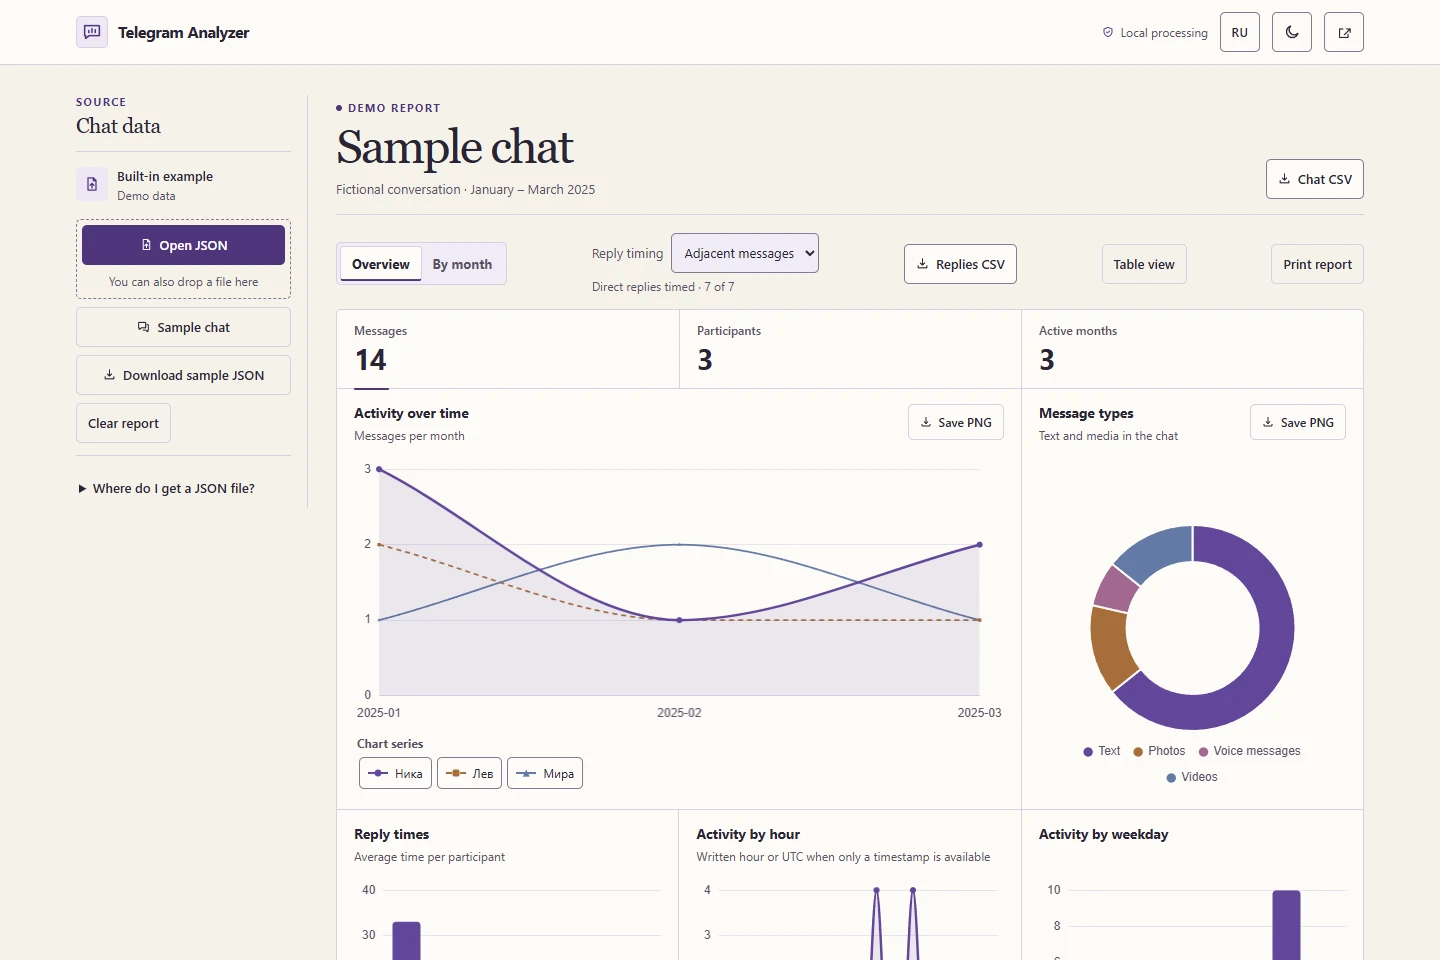
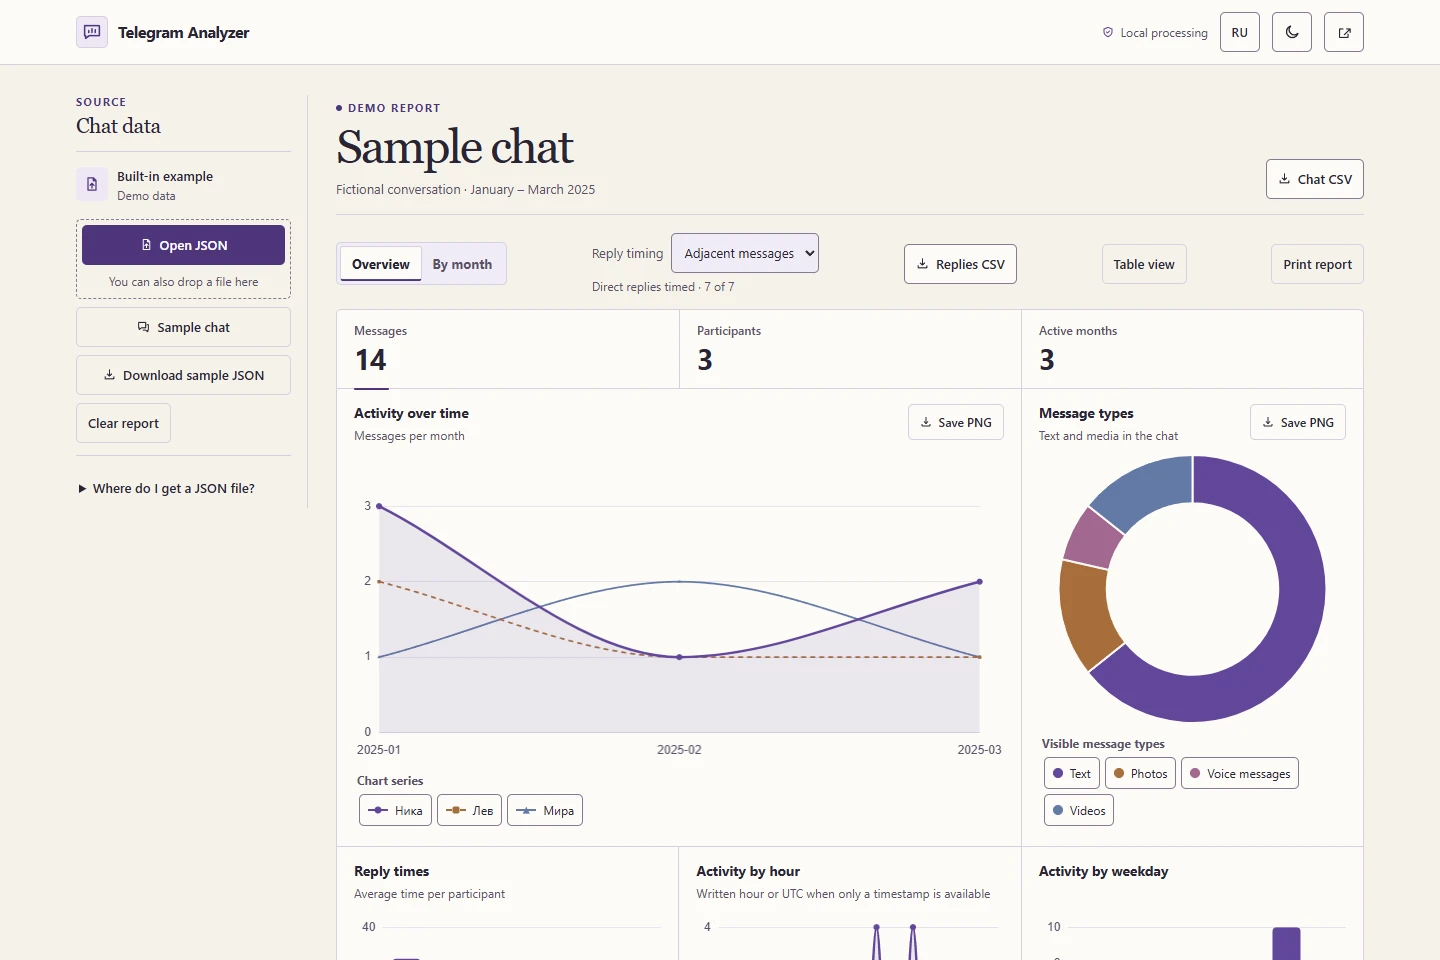
Guide readers through the sample chat exports

diff --git a/README.md b/README.md
@@ -6,13 +6,20 @@
 
 Analyze Telegram Desktop chat exports in your browser. See who participates, when the conversation is most active, and how long responses take.
 
-**[Try in browser →](https://orangepony4.github.io/telegram-analyzer/)**
+**[Try it here →](https://orangepony4.github.io/telegram-analyzer/)**
 
 [Analyze my export](https://orangepony4.github.io/telegram-analyzer/?view=upload) · [Download the offline ZIP](https://github.com/orangepony4/telegram-analyzer/releases/latest) · [View source code](https://github.com/orangepony4/telegram-analyzer/tree/main)
 
-The app opens with a fictional three-month conversation. Explore the charts and download a sample CSV right away. **Analyze my export** opens the upload view. Choose **Sample chat** to open the example or **Download sample JSON** to save the same conversation and try importing it yourself with **Open JSON**. The interface starts in English. Use **RU** in the header to switch to Russian without reopening the report.
+The browser app opens with a fictional three-month conversation. Use **RU** in the header to switch from English to Russian without reopening the report.
 
-![Telegram Analyzer showing monthly activity and message types for a fictional chat](docs/preview.webp)
+![A fictional chat report with activity and message-type charts and category buttons](docs/preview.webp)
+
+### Try the sample chat
+
+1. Select **Table view**, open **Participants table**, and enter `Ника` in **Find by name**. Choose **Table CSV** to save that participant's row.
+2. Select **Table view** again to show the charts. Under **Message types**, focus **Videos** with Tab and press Enter to hide the video slice. Choose **Save PNG** above the chart to download the visible slices.
+
+Use **Download sample JSON** to save the same conversation and practice importing it with **Open JSON**. The **Analyze my export** link opens the upload view directly.
 
 ### Analyze your own chat
 
@@ -89,13 +96,18 @@ Run `npm run package:offline` from a Git checkout to build `telegram-analyzer-of
 
 ## Русский
 
-**[Попробовать в браузере →](https://orangepony4.github.io/telegram-analyzer/)**
+**[Попробовать здесь →](https://orangepony4.github.io/telegram-analyzer/)**
 
 [Проанализировать свой экспорт](https://orangepony4.github.io/telegram-analyzer/?view=upload) · [Скачать ZIP для работы без интернета](https://github.com/orangepony4/telegram-analyzer/releases/latest) · [Исходный код](https://github.com/orangepony4/telegram-analyzer/tree/main) · [English](#english)
 
-Telegram Analyzer показывает активность, участников и время ответа по экспорту из Telegram Desktop. Ссылка «Попробовать в браузере» открывает вымышленную переписку за три месяца. Можно сразу посмотреть графики и скачать пробный CSV. Ссылка «Проанализировать свой экспорт» ведёт на экран загрузки. Нажмите **«Демо-чат»**, чтобы открыть пример, или **«Скачать пример JSON»**, чтобы сохранить ту же переписку и загрузить её через **«Открыть JSON»**.
+Ссылка **«Попробовать здесь»** открывает вымышленную переписку за три месяца. Нажмите **RU** в шапке, чтобы перейти на русский. Текущий отчёт останется открытым.
 
-Интерфейс открывается на английском. Нажмите **RU** в шапке, чтобы перейти на русский. Текущий отчёт останется открытым.
+### Как попробовать на демо-чате
+
+1. Нажмите **«Режим таблиц»**, раскройте **«Таблица участников»** и введите `Ника` в поле **«Поиск по имени»**. Нажмите **«CSV таблицы»**, чтобы сохранить строку этого участника.
+2. Нажмите **«Режим таблиц»** ещё раз, чтобы вернуть графики. Под графиком **«Типы сообщений»** перейдите клавишей Tab к кнопке **«Видео»** и нажмите Enter, чтобы скрыть сектор. Нажмите **«Скачать PNG»** над графиком, чтобы сохранить видимые секторы.
+
+Кнопка **«Скачать пример JSON»** сохраняет ту же переписку для пробной загрузки через **«Открыть JSON»**. Ссылка **«Проанализировать свой экспорт»** ведёт сразу на экран загрузки.
 
 ### Как открыть свою переписку
 
